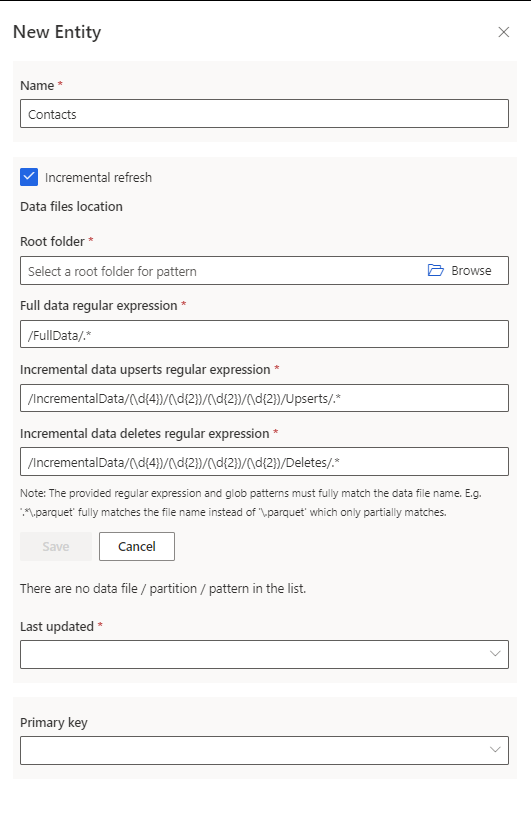
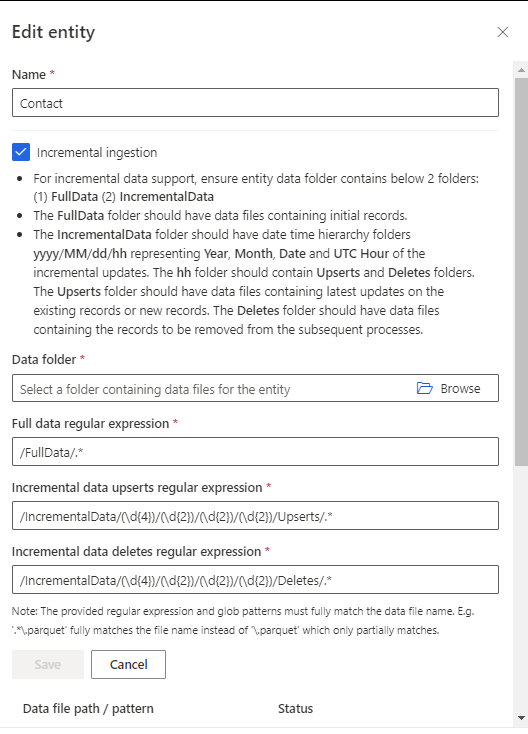
Update with changes to UI

diff --git a/ci-docs/connect-common-data-model.md b/ci-docs/connect-common-data-model.md
@@ -1,7 +1,7 @@
 ---
 title: "Connect Common Data Model data to an Azure Data Lake account"
 description: "Work with Common Data Model data using Azure Data Lake Storage."
-ms.date: 05/09/2022
+ms.date: 05/30/2022
 
 ms.subservice: audience-insights
 ms.topic: how-to
@@ -73,13 +73,13 @@ This article provides information on how to ingest data into Dynamics 365 Custom
    :::image type="content" source="media/deltalake_required.png" alt-text="Dialog box showing Required for Primary key":::
 
    > [!TIP]
-   > To edit the entities in a JSON editing interface, select **Show more** > **Edit schema**. Make changes and select **Save**.
+   > To edit the entities in a JSON editing interface, select **Show more** > **Edit schema file**. Make changes and select **Save**.
 
 1. For selected entities where a primary key has not been defined, **Required** displays under **Primary key**. For each of these entities:
    1. Select **Required**. The **Edit entity** panel displays.
    1. Choose the **Primary key**.
    1. Optionally, change the partition pattern.
-   1. To enable an incremental refresh, see [Configure an incremental refresh for Azure Data Lake data sources](incremental-refresh-data-sources.md).
+   1. If an incremental refresh is required or to enable an incremental refresh, see [Configure an incremental refresh for Azure Data Lake data sources](incremental-refresh-data-sources.md).
    1. Select **X** to save and close the panel.
 
 1. Select **Attributes**. The Manage attributes page displays.
@@ -94,37 +94,37 @@ This article provides information on how to ingest data into Dynamics 365 Custom
 
 ### Create a new schema file
 
-1. Select **New data source schema**.
+1. Select **New schema file**.
 
 1. Enter a name for the file and select **Save**.
 
 1. Select **New entity**. The New Entity panel displays.
 
-   :::image type="content" source="media/ADLS_new_entity_location.png" alt-text="Dialog box to create a new entity with Data files location highlighted.":::
-
 1. Enter the entity name and choose the **Data files location**.
-   - **Pattern**: Browse to the root folder for the pattern, select the pattern type, and enter the expression.
-   - **Location**: Browse to the entity file and select it.
+   - **Multiple .csv or .parquet files**: Browse to the root folder, select the pattern type, and enter the expression.
+   - **Single .csv or .parquet files***: Browse to the .csv or .parquet file and select it.
+
+   :::image type="content" source="media/ADLS_new_entity_location.png" alt-text="Dialog box to create a new entity with Data files location highlighted.":::
 
 1. Select **Save**.
 
-1. Select **No attributes** to add the attributes, or select **generate the attributes**.
+1. Select **define the attributes** to add the attributes, or select **auto generate them**.
 
-   :::image type="content" source="media/ADLS_new_entity.png" alt-text="Dialog box to create a new entity with generate the attributes highlighted.":::
+1. Select **Review attributes** to ensure the data format is correct for each attribute. The Manage attributes page displays.
 
-1. Optionally, choose the **Primary key**.
-
-1. Select **X** to save and close the panel.
-
-1. To enable analytics and other capabilities, select **Attributes**. The Manage attributes page displays. Select **Data profiling** for the whole entity or for specific attributes and then select **Done**. By default, no entity is enabled for data profiling.
+1. To enable analytics and other capabilities, select **Data profiling** for the whole entity or for specific attributes and then select **Done**. By default, no entity is enabled for data profiling.
 
    :::image type="content" source="media/dataprofiling-entities.png" alt-text="Dialog box to select data profiling.":::
 
-1. Select **Include entities**.
-
-1. To enable an incremental refresh, see [Configure an incremental refresh for Azure Data Lake data sources](incremental-refresh-data-sources.md).
+1. Select **Include** to include the entity in the data source ingestion.
 
 1. Continue to add entities, if applicable.
+
+1. For selected entities where a primary key has not been defined, **Required** displays under **Primary key**. For each of these entities:
+   1. Select **Required**.
+   1. Choose the **Primary key**.
+   1. To enable an incremental refresh or if the entity requires incremental data support, see [Configure an incremental refresh for Azure Data Lake data sources](incremental-refresh-data-sources.md).
+   1. Select **X** to save and close the panel.
 
 1. Select **Save**. The **Data sources** page opens showing the new data source in **Refreshing** status.
 

diff --git a/ci-docs/incremental-refresh-data-sources.md b/ci-docs/incremental-refresh-data-sources.md
@@ -1,7 +1,7 @@
 ---
 title: "Incremental refresh for Power Query and Azure Data Lake data sources"
 description: "Refresh new and updated data for large data sources based on Power Query or Azure data lake data sources."
-ms.date: 05/09/2022
+ms.date: 05/30/2022
 ms.reviewer: v-wendysmith
 
 ms.subservice: audience-insights
@@ -62,15 +62,17 @@ You can configure incremental refresh when adding the Azure Data Lake data sourc
 
 1. From the **Select Entities** pane, edit the entity.
 
-1. Select the **Incremental refresh** checkbox.
+1. Select the **Incremental ingestion** checkbox.
 
    :::image type="content" source="media/ADLS_inc_refresh.png" alt-text="Configure entities in a data source for incremental refresh.":::
 
    1. Browse to the root folder that contains the .csv or .parquet files for full data, incremental data upserts, and incremental data deletes.
-   1. Enter the extension for the full data and incremental files (for example: \.csv).
+   1. Enter the extension for the full data and both incremental files (for example: \.csv).
    1. Select **Save**.
 
 1. For **Last updated**, select the date timestamp.
+
+1. If the **Primary key** is not selected, select the primary key.
 
 1. Select **X** to save and close the pane.
 
